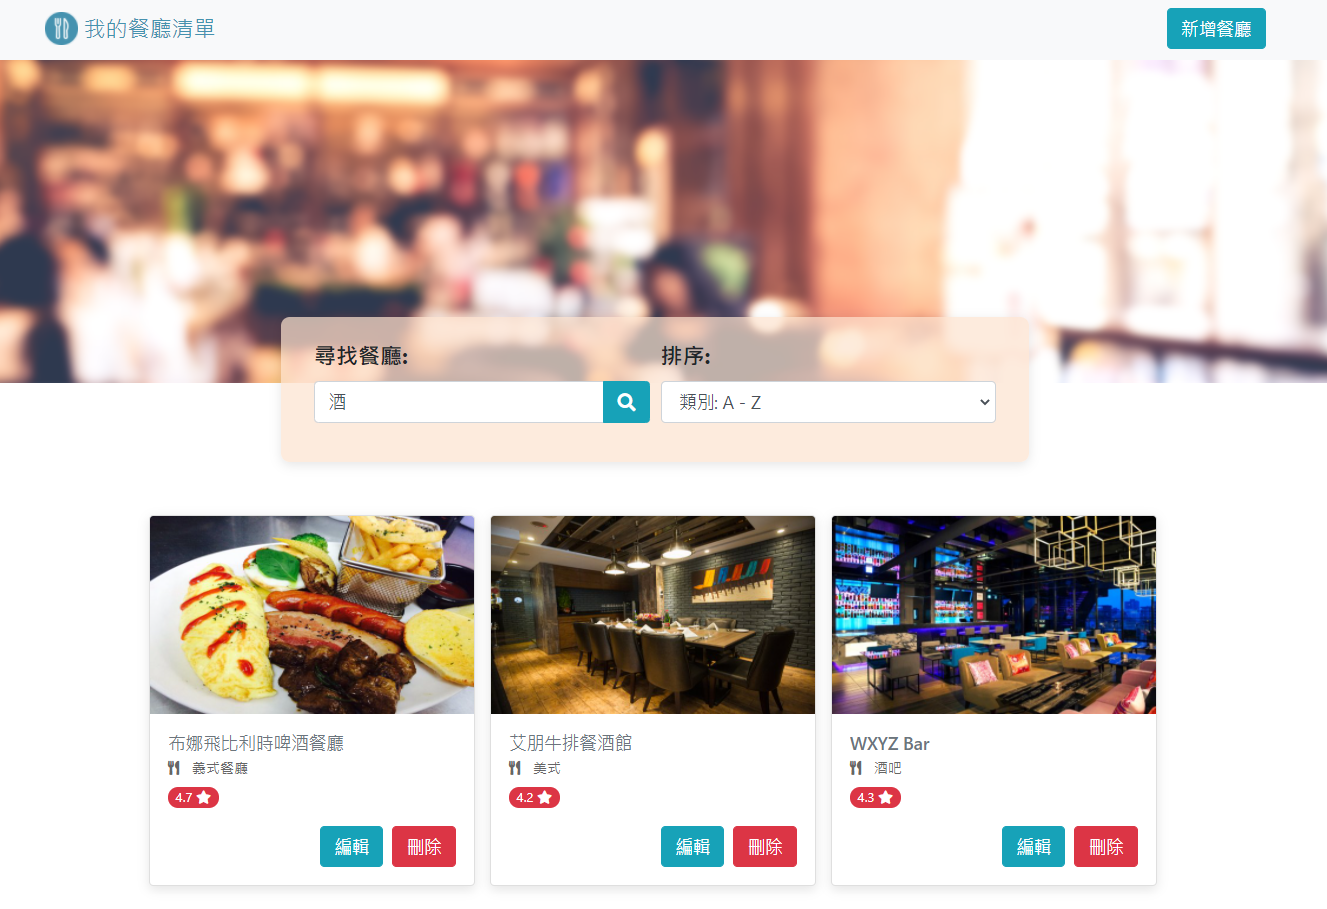
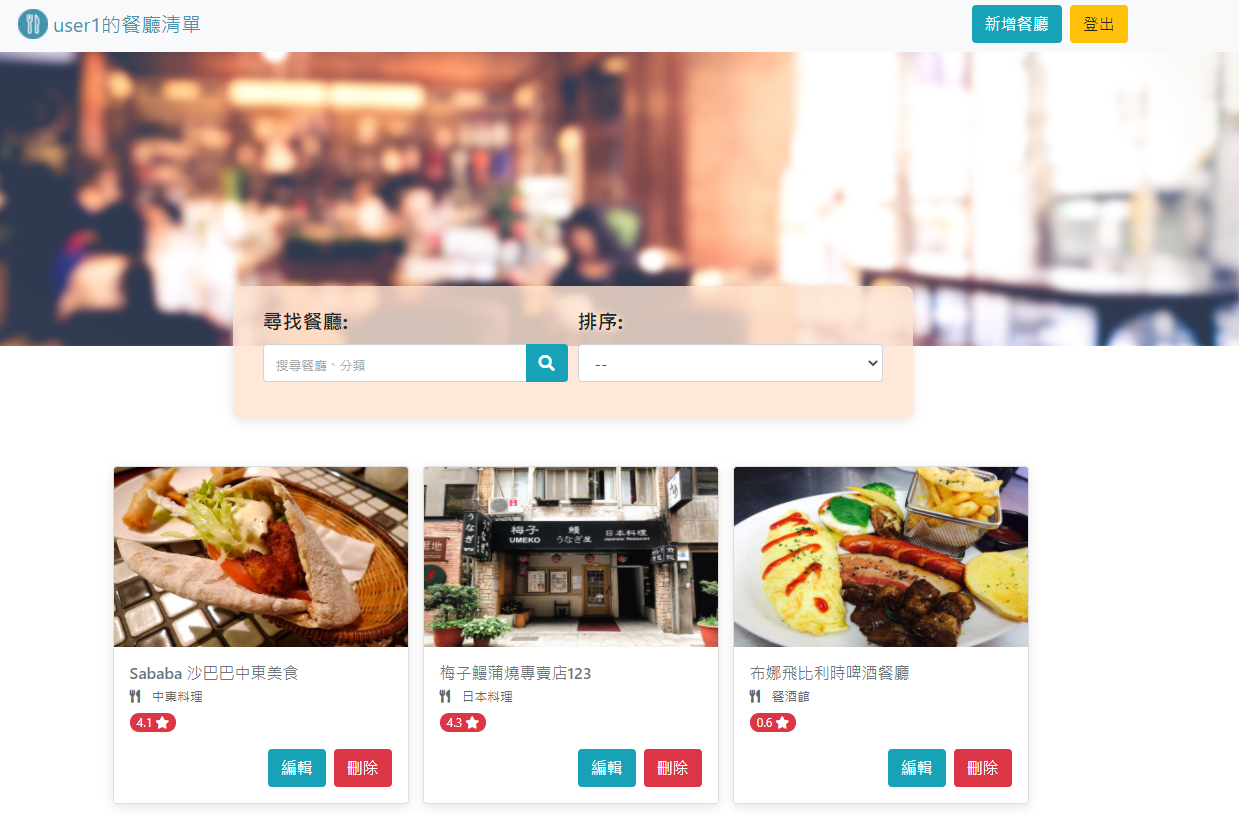
feat: update README and screen shot

diff --git a/README.md b/README.md
@@ -1,7 +1,12 @@
 # Restaurant List
-A web app built by Express.js to help users collect and search for restaurants they like.![screenshot](./index_page_screenshot.png)
+A web app built by Express.js to help users collect and search for restaurants they like.
+![screenshot](./index_page_screenshot.png)
 
 ## Features
+* Register and Login to use the app
+![login](./login_screenshot.png)
+![register](./register_screenshot.png)
+
 * Browsing all restaurants on home page
 
 * Clicking on certain restaurant name or image to check detail info, such as address, phone number and description
@@ -23,6 +28,8 @@ A web app built by Express.js to help users collect and search for restaurants t
 
   ![新增](./add_restaurant_screenshot.png)
 
+
+
 ## Prerequisite
 * Node.js: v10.15.0
 * npm: 6.4.1
@@ -33,11 +40,26 @@ A web app built by Express.js to help users collect and search for restaurants t
 * mongoDB: 4.2.9
 * robo 3T: 1.4.1
 * mongoose: 5.10.7
+* bcryptjs: ^2.4.3
+* connect-flash: 0.1.1
+* dotenv: 8.2.0
+* express-session: 1.17.1
+* passport: 0.4.1
+* passport-facebook: 3.0.0
+* passport-local: 1.0.0
+
 
 ## Installation
 1. Enter ` git clone https://github.com/Kaikai8888/restaurant_list_2.git ` in the terminal to download the project folder
 2. Use robo 3T to manipulate mongoDB, create connection to `localhost: 27017`, and create the database,`restaurant-list`
 3. Enter `npm run seed` in the terminal to to run restaurantSeeder.js with nodemon and create seed data
 4. Enter `npm run dev` in the terminal to run app.js with nodemon to set up database connection and start local server 
-5. Enter http://localhost:3000 in the brower and enter the website
+5. Enter http://localhost:3000 in the browser and enter the website
+6. User following demo account to login:
+  * user1: 
+    - email: user1@example.com
+    - password: 12345678
+  * user2:
+    - email: user2@example.com
+    - password: 12345678
 
